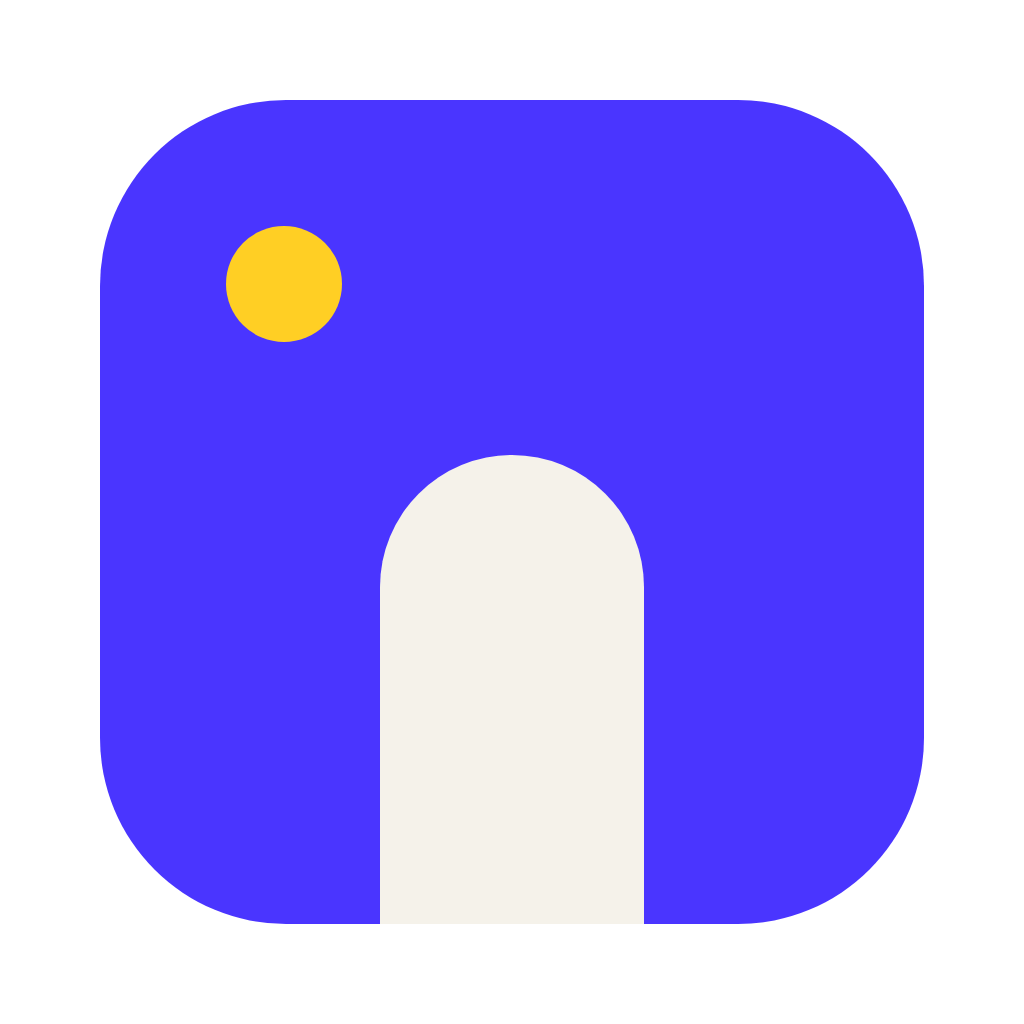
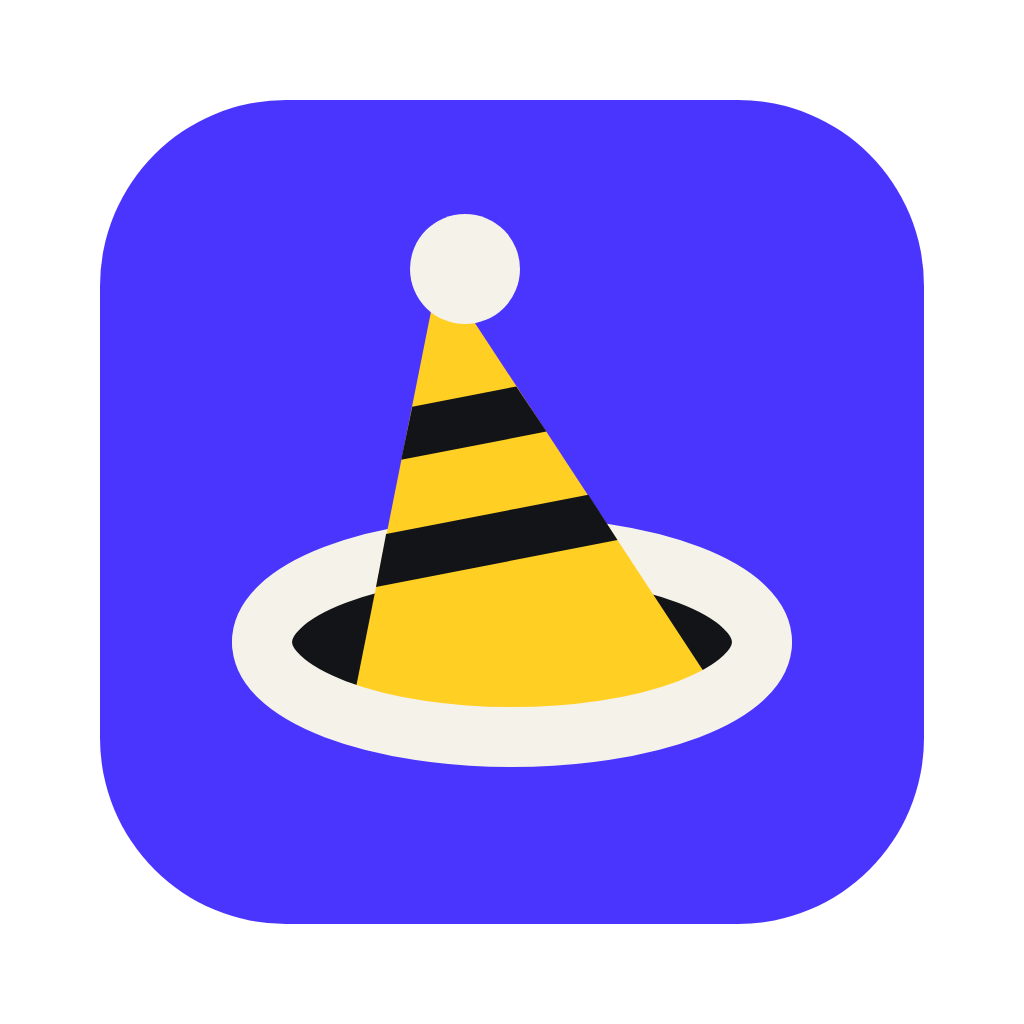
New mark: a party hat coming up through a portal
Replaces the window-with-a-doorway mark, which read badly. Updates the logo files,
the favicon, the app icon, the social card and the page header.

Changed region(s): [[0.2188, 0.1875, 0.7812, 0.9062], [0.2188, 0.2188, 0.3438, 0.3438]]

diff --git a/site/assets/icon.html b/site/assets/icon.html
@@ -4,9 +4,18 @@
 <meta charset="utf-8">
 <style>html, body { margin: 0; background: transparent; } svg { display: block; }</style>
 <svg xmlns="http://www.w3.org/2000/svg" width="1024" height="1024" viewBox="0 0 1024 1024">
-  <!-- macOS proportions: an 824 px rounded square inside a 1024 px canvas. The icon is the mark itself:
-       the window is the violet square, the doorway is cut at the bottom, the dot is its one control. -->
+  <!-- macOS proportions: an 824 px rounded square inside a 1024 px canvas, the mark on portal violet. -->
   <rect x="100" y="100" width="824" height="824" rx="186" fill="#4a35ff"/>
-  <path d="M380 924V587a132 132 0 0 1 264 0v337z" fill="#f5f2ea"/>
-  <circle cx="284" cy="284" r="58" fill="#ffcf24"/>
+  <g transform="translate(192 172) scale(10)">
+    <clipPath id="pp-clip"><path d="M0 0H64V47H57A25 9.5 0 0 1 7 47H0Z"/></clipPath>
+    <ellipse cx="32" cy="47" rx="25" ry="9.5" fill="#121417"/>
+    <path d="M7 47a25 9.5 0 0 1 50 0" fill="none" stroke="#f5f2ea" stroke-width="6" stroke-linecap="round"/>
+    <g clip-path="url(#pp-clip)"><g transform="rotate(-11 32 47)">
+      <path d="M32 9 52.9 60H11.1Z" fill="#ffcf24"/>
+      <path d="M26.7 22h10.6l2.1 5H24.6Z" fill="#121417"/>
+      <path d="M21.7 34h20.6l2 5H19.7Z" fill="#121417"/>
+    </g></g>
+    <circle cx="27.3" cy="9.7" r="5.5" fill="#f5f2ea"/>
+    <path d="M7 47a25 9.5 0 0 0 50 0" fill="none" stroke="#f5f2ea" stroke-width="6" stroke-linecap="round"/>
+  </g>
 </svg>

diff --git a/site/index.html b/site/index.html
@@ -185,7 +185,18 @@
 <header>
   <div class="wrap">
     <a class="brand" href="/" aria-label="PartyPortal home">
-      <svg viewBox="0 0 64 64" aria-hidden="true"><path class="f-portal" fill-rule="evenodd" d="M12 4h40a8 8 0 0 1 8 8v40a8 8 0 0 1-8 8H12a8 8 0 0 1-8-8V12a8 8 0 0 1 8-8zM23 60V37a9 9 0 0 1 18 0v23z"/><circle cx="16.5" cy="16.5" r="4" class="f-tape"/></svg>
+      <svg viewBox="0 0 64 64" aria-hidden="true">
+        <clipPath id="brand-clip"><path d="M0 0H64V47H57A25 9.5 0 0 1 7 47H0Z"/></clipPath>
+        <ellipse cx="32" cy="47" rx="25" ry="9.5" fill="#121417"/>
+        <path d="M7 47a25 9.5 0 0 1 50 0" fill="none" class="s-portal" stroke-width="6" stroke-linecap="round"/>
+        <g clip-path="url(#brand-clip)"><g transform="rotate(-11 32 47)">
+          <path d="M32 9 52.9 60H11.1Z" class="f-tape"/>
+          <path d="M26.7 22h10.6l2.1 5H24.6Z" class="f-ink"/>
+          <path d="M21.7 34h20.6l2 5H19.7Z" class="f-ink"/>
+        </g></g>
+        <circle cx="27.3" cy="9.7" r="5.5" class="f-portal"/>
+        <path d="M7 47a25 9.5 0 0 0 50 0" fill="none" class="s-portal" stroke-width="6" stroke-linecap="round"/>
+      </svg>
       PartyPortal
     </a>
     <nav>

diff --git a/site/og.html b/site/og.html
@@ -20,7 +20,18 @@
   .art { position: absolute; right: -40px; bottom: -60px; width: 560px; height: 470px; }
 </style>
 <div class="brand">
-  <svg viewBox="0 0 64 64"><path fill="#4a35ff" fill-rule="evenodd" d="M12 4h40a8 8 0 0 1 8 8v40a8 8 0 0 1-8 8H12a8 8 0 0 1-8-8V12a8 8 0 0 1 8-8zM23 60V37a9 9 0 0 1 18 0v23z"/><circle cx="16.5" cy="16.5" r="4" fill="#ffcf24"/></svg>
+  <svg viewBox="0 0 64 64">
+  <clipPath id="og-clip"><path d="M0 0H64V47H57A25 9.5 0 0 1 7 47H0Z"/></clipPath>
+  <ellipse cx="32" cy="47" rx="25" ry="9.5" fill="#121417"/>
+  <path d="M7 47a25 9.5 0 0 1 50 0" fill="none" stroke="#4a35ff" stroke-width="6" stroke-linecap="round"/>
+  <g clip-path="url(#og-clip)"><g transform="rotate(-11 32 47)">
+    <path d="M32 9 52.9 60H11.1Z" fill="#ffcf24"/>
+    <path d="M26.7 22h10.6l2.1 5H24.6Z" fill="#121417"/>
+    <path d="M21.7 34h20.6l2 5H19.7Z" fill="#121417"/>
+  </g></g>
+  <circle cx="27.3" cy="9.7" r="5.5" fill="#4a35ff"/>
+  <path d="M7 47a25 9.5 0 0 0 50 0" fill="none" stroke="#4a35ff" stroke-width="6" stroke-linecap="round"/>
+  </svg>
   PartyPortal
 </div>
 <span class="tag">Open source · macOS</span>
